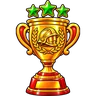
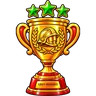
Trophée Tout vert : plaque gravée Cruzy-Quarante
Claude-Session: https://claude.ai/code/session_01Rtbukj4HqwBJ4CZhRR1bdY

Changed region(s): [[0.375, 0.8438, 0.625, 0.9062]]

diff --git a/sw.js b/sw.js
@@ -1,6 +1,6 @@
 // Service worker de Gestion ICP : rend l'appli installable et accélère les
 // ouvertures suivantes. Les données (Supabase) ne passent JAMAIS par le cache.
-const VERSION = 'icp-v54';
+const VERSION = 'icp-v55';
 const COQUILLE = ['./', 'index.html', 'manifest.webmanifest'];
 
 self.addEventListener('install', (e) => {
